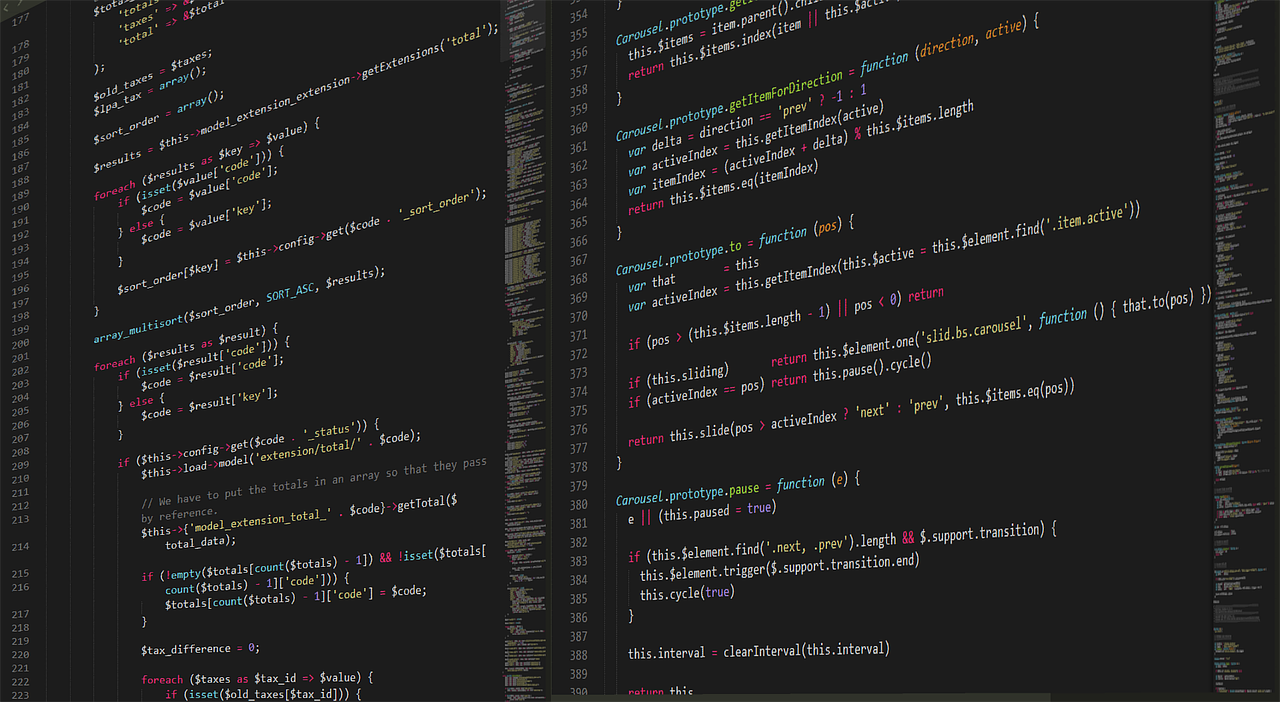
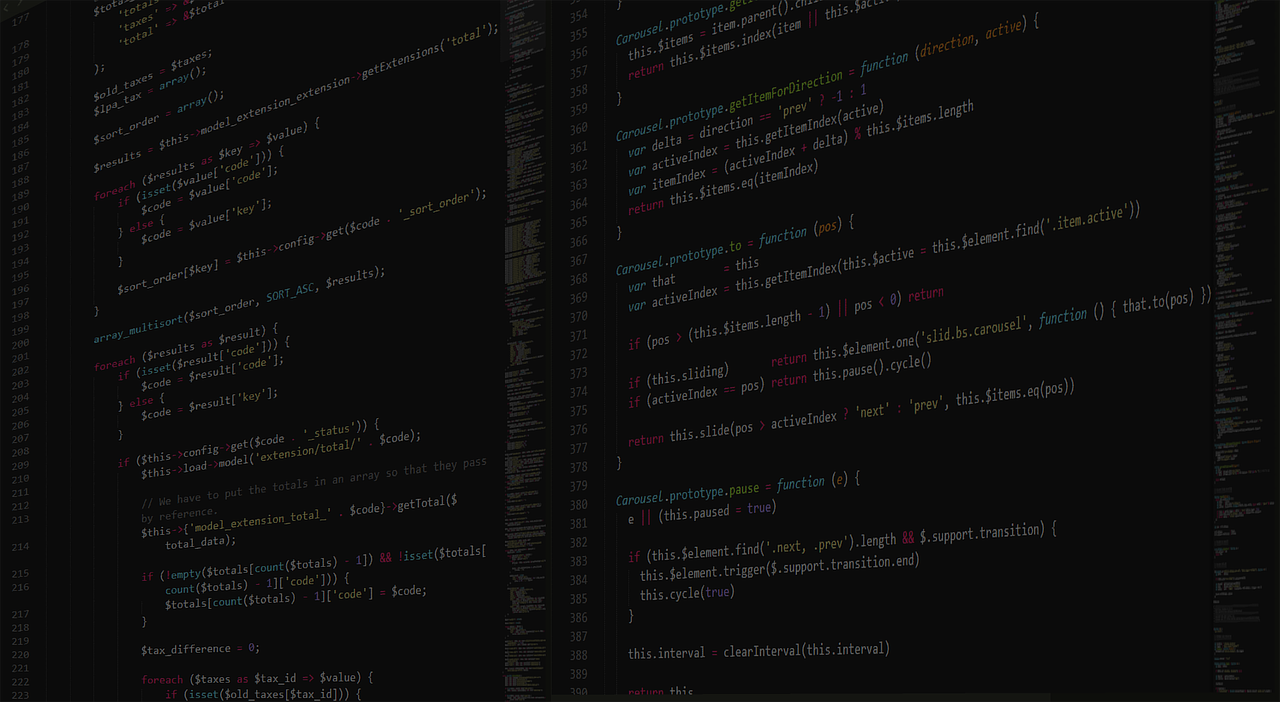
darken image and changed font

diff --git a/css/main.css b/css/main.css
@@ -3,6 +3,7 @@
   margin: 0; }
 
 body {
+  font-family: 'Catamaran', sans-serif;
   background-color: #ecf0f1; }
   body .nav-blue {
     background-color: #2c3e50 !important; }
@@ -10,12 +11,13 @@ body {
     background-color: #ecf0f1;
     height: 340px;
     padding-top: 90px;
-    background-image: url("../img/code-bg.png"); }
+    background-image: url("../img/code-bg.png");
+    font-family: 'Source Code Pro', monospace; }
     body .about-container .intro {
       width: 750px;
       margin: 0 auto;
       padding-bottom: 20px;
-      font-family: 'Monoton', cursive;
+      font-family: 'Source Code Pro', monospace;
       color: white;
       font-size: 200%; }
       @media screen and (max-width: 700px) {

diff --git a/css/main.scss b/css/main.scss
@@ -5,6 +5,8 @@ $blue: #2c3e50;
 * { padding: 0; margin: 0; }
 
 body {
+
+	font-family: 'Catamaran', sans-serif;
 	background-color: $light-gray;
 	.nav-blue {
 		background-color: $blue !important;
@@ -14,11 +16,12 @@ body {
 		height: 340px;
 		padding-top: 90px;
 		background-image: url("../img/code-bg.png");
+		font-family: 'Source Code Pro', monospace;
 		.intro {
 			width: 750px;
 			margin: 0 auto;
 			padding-bottom: 20px;
-			font-family: 'Monoton', cursive;
+			font-family: 'Source Code Pro', monospace;
 			color: white;
 			font-size: 200%;
 

diff --git a/index.html b/index.html
@@ -29,7 +29,9 @@
     <link href="css/scrolling-nav.css" rel="stylesheet">
 
     <link rel="stylesheet" href="devicons.css">
-    <link href="https://fonts.googleapis.com/css?family=Monoton" rel="stylesheet">
+    <link href="https://fonts.googleapis.com/css?family=Source+Code+Pro" rel="stylesheet">
+    <link href="https://fonts.googleapis.com/css?family=Catamaran" rel="stylesheet">
+
 
 
     <!-- Font Awesome -->
